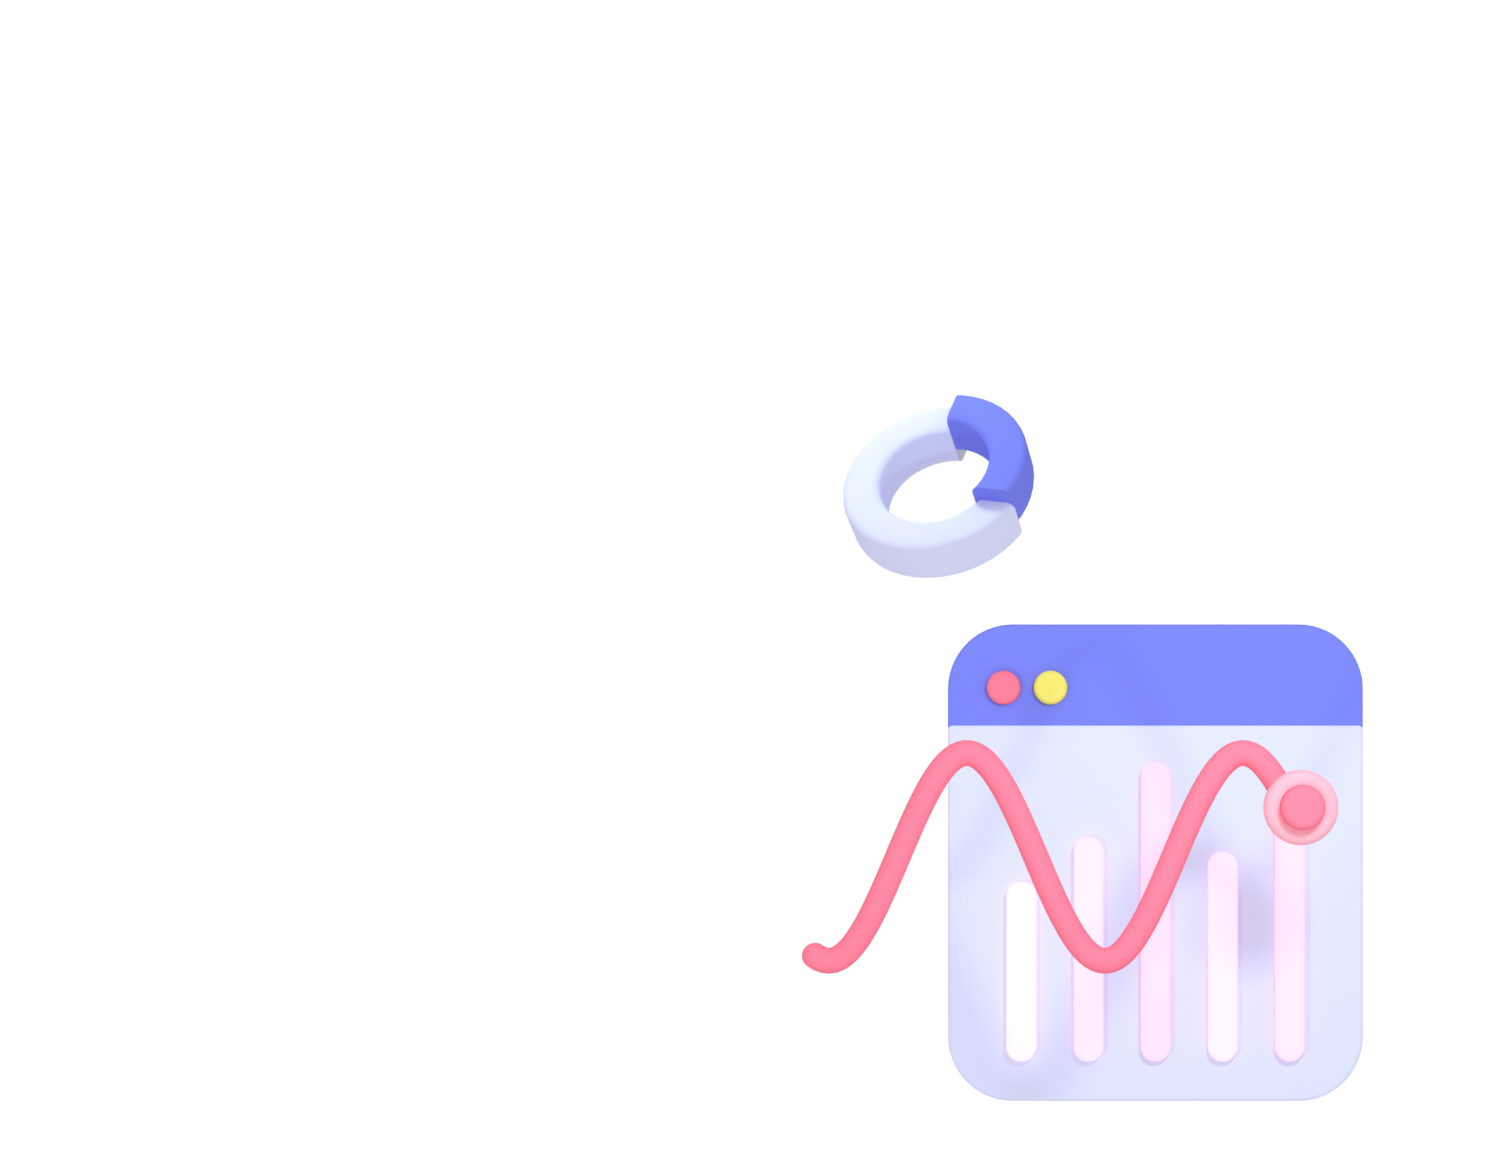
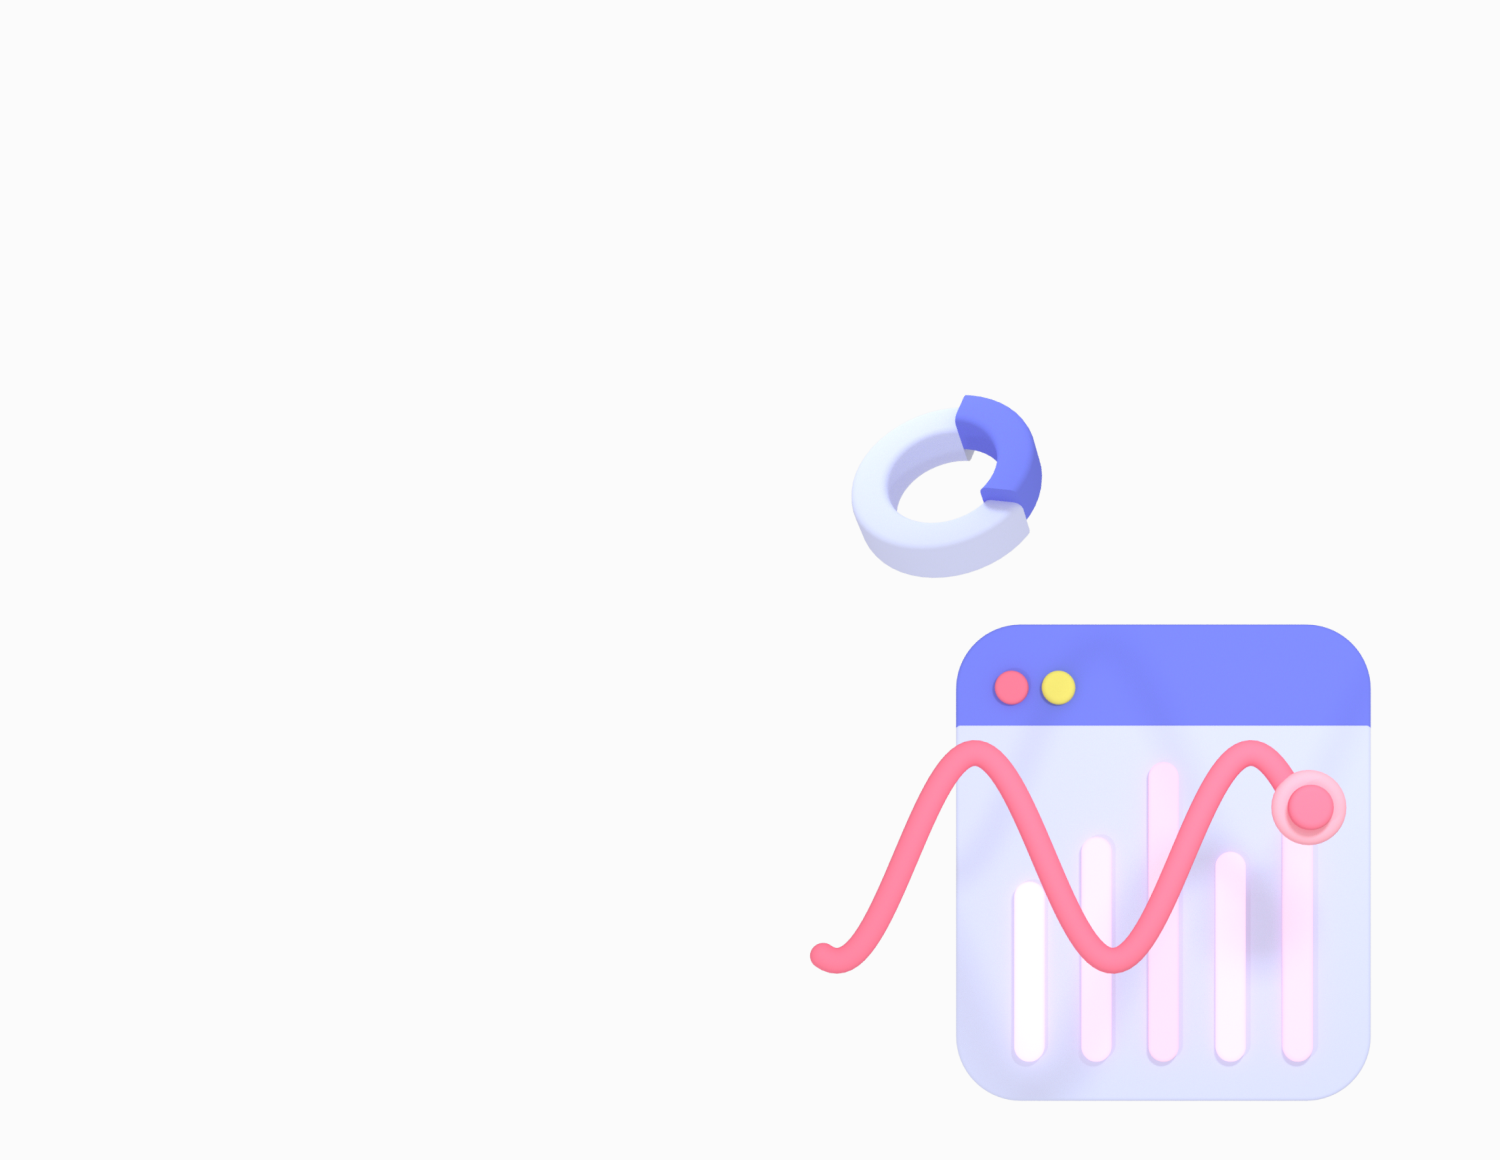
[WHAL-68] style: modify menubar, add images at component (#47)
* modify: bottom menu bar icons

* modify: main background img

* feat: add graphic at create success modal

* feat: change types of alert modal

* refactor: modal, menubar

* modify: imgages changed

* style: add whale img at create page

* style: add detail background img

* style: add detail tracked background img

diff --git a/src/components/Icon.tsx b/src/components/Icon.tsx
@@ -17,6 +17,8 @@ import whole from '../static/icons/whole.svg';
 import inprogress from '../static/icons/inprogress.svg';
 import completed from '../static/icons/completed.svg';
 import logo from '../static/icons/logo.svg';
+import mypage from '../static/icons/mypage.svg';
+import coloredMypage from '../static/icons/colored-mypage.svg';
 
 export const RootIcon = styled.div`
   &:hover {
@@ -35,8 +37,6 @@ export const IconType = {
   Profile: 'Profile',
   CreateVote: 'CreateVote',
   GoTop: 'GoTop',
-  BottomBarVote: 'BottomBarVote',
-  BottomBarMyPage: 'BottomBarMyPage',
 
   //////// Fixed Design System
   MainBack: 'MainBack',
@@ -52,6 +52,10 @@ export const IconType = {
   Inprogress: 'Inprogress',
   Completed: 'Completed',
   Logo: 'Logo',
+  Vote: 'Vote',
+  ColoredVote: 'ColoredVote',
+  MyPage: 'MyPage',
+  ColoredMypage: 'ColoredMypage',
 };
 
 export type TIcon = keyof typeof IconType;
@@ -79,13 +83,21 @@ export const IconMap: {
     width: 64px;
     height: 64px;
   `,
-  [IconType.BottomBarVote]: styled(RootIcon)`
+  [IconType.Vote]: styled(RootIcon)`
     width: 28px;
     height: 28px;
   `,
-  [IconType.BottomBarMyPage]: styled(RootIcon)`
+  [IconType.ColoredVote]: styled(RootIcon)`
     width: 28px;
     height: 28px;
+  `,
+  [IconType.ColoredMypage]: styled(RootIcon)`
+    width: 30px;
+    height: 30px;
+  `,
+  [IconType.MyPage]: styled(RootIcon)`
+    width: 30px;
+    height: 30px;
   `,
   [IconType.GoTop]: styled(RootIcon)`
     width: 56px;
@@ -159,12 +171,17 @@ const Icon = ({ iconType, style, onClick }: IconMapProps) => {
       src = whale;
       break;
     case IconType.Profile:
-
-    case IconType.BottomBarVote:
+    case IconType.Vote:
+      src = vote;
+      break;
+    case IconType.ColoredVote:
       src = coloredVote;
       break;
-    case IconType.BottomBarMyPage:
-      src = whale;
+    case IconType.MyPage:
+      src = mypage;
+      break;
+    case IconType.ColoredMypage:
+      src = coloredMypage;
       break;
     case IconType.CreateVote:
       src = pencil;

diff --git a/src/pages/detail/index.tsx b/src/pages/detail/index.tsx
@@ -15,6 +15,8 @@ import color from '../../styles/color';
 import BarGraph from '../../components/graph/BarGraph';
 import BottomSheet from '../../components/BottomSheet';
 import useModal from '../../hooks/useModal';
+import detail from '../../static/img/detail.png';
+import detailTracked from '../../static/img/detail-tracked.png';
 
 const index = () => {
   //해당 페이지에서는 양옆 패딩 제거
@@ -24,12 +26,13 @@ const index = () => {
   }
 
   const completed = false;
+  const tracked = true;
   // eslint-disable-next-line react-hooks/rules-of-hooks
   const { isOpen, toggleModal } = useModal();
 
   return (
     <div>
-      <div style={{ padding: '0 16px' }}>
+      <Background tracked={tracked}>
         <RowBetween>
           <Icon iconType="Close" />
           <Column>
@@ -56,7 +59,7 @@ const index = () => {
             <Text type="Body" content="+20" />
           </Row>
         </Column>
-      </div>
+      </Background>
       <VoteDetail>
         <CoinImg />
         <Text type="Headline" content="$비트코인이 1개월 후에" />
@@ -112,17 +115,29 @@ const index = () => {
     </div>
   );
 };
+interface BackgroundProps {
+  tracked: boolean;
+}
+const Background = styled.div<BackgroundProps>`
+  padding: 0 16px;
+
+  background-image: ${(props) =>
+    props.tracked ? `url(${detailTracked})` : `url(${detail})`};
+  background-size: contain;
+  background-repeat: no-repeat;
+
+  height: 211px;
+`;
 
 const VoteDetail = styled(ColumnCenter)`
   position: relative;
 
   width: 100%;
 
-  margin-top: 69px;
   padding-top: 40px;
 
   border-radius: 25px 25px 0 0;
-  border-top: 1px solid black;
+  box-shadow: -10px -10px 100px rgba(198, 200, 203, 0.1);
 `;
 
 const CoinImg = styled.img`
@@ -133,7 +148,7 @@ const CoinImg = styled.img`
   height: 91px;
 
   border-radius: 50%;
-  border: 5px solid black;
+  border: 5px solid #ffffff;
 
   background-color: #ffffff;
 `;

diff --git a/src/components/modal/AlertModal.tsx b/src/components/modal/AlertModal.tsx
@@ -1,0 +1,49 @@
+import React, { CSSProperties } from 'react';
+import color from '../../styles/color';
+import { TextAlignCenter } from '../Layout';
+import Text from '../Text';
+import Image from '../Image';
+import styled from 'styled-components';
+const AlertModal = ({ type }: { type: string }) => {
+  return (
+    <TextAlignCenter>
+      <Image imgType="AlertWhale" style={alertImgStyle} />
+      <TextWrapper>
+        <Text
+          type="Headline"
+          content="고래밥이 부족해요!"
+          style={{ marginBottom: 8 }}
+        />
+        <Text
+          type="Body2"
+          content={
+            type === 'goVote'
+              ? '운영자 투표 참여 후, 실제 결과를 기다려보세요.'
+              : '투표 첫 생성 시, 고래밥 100개를 드려요!'
+          }
+          style={{ color: `${color.darkness[6]}` }}
+        />
+        <Text
+          type="Body2"
+          content={
+            type === 'goVote'
+              ? '적중 시 고래밥 30개를 드려요!'
+              : '지금 첫 투표를 만들러 가볼까요?'
+          }
+          style={{ color: `${color.darkness[6]}` }}
+        />
+      </TextWrapper>
+    </TextAlignCenter>
+  );
+};
+const alertImgStyle: CSSProperties = {
+  position: 'relative',
+  bottom: 20,
+};
+const TextWrapper = styled.div`
+  position: absolute;
+  bottom: 90px;
+  line-height: normal;
+`;
+
+export default AlertModal;

diff --git a/src/components/MenuBar.tsx b/src/components/MenuBar.tsx
@@ -1,26 +1,30 @@
 import React from 'react';
-import { Link } from 'react-router-dom';
+import { Link, useLocation } from 'react-router-dom';
 import styled from 'styled-components';
 import Icon from './Icon';
 import { ColumnCenter, RowBetween } from './Layout';
 const MenuBar = () => {
+  const path = useLocation().pathname.slice(1);
+
   return (
     <Container>
       <StyledLink to="/">
         <ColumnCenter>
-          <Icon iconType="Home" />
+          <Icon iconType={path === '' ? 'ColoredHome' : 'Home'} />
           <MenuText>홈</MenuText>
         </ColumnCenter>
       </StyledLink>
       <StyledLink to="/">
         <ColumnCenter>
-          <Icon iconType="BottomBarVote" />
+          <Icon iconType={path === 'votes' ? 'ColoredVote' : 'Vote'} />
           <MenuText>투표하기</MenuText>
         </ColumnCenter>
       </StyledLink>
       <StyledLink to="/my-page">
         <ColumnCenter>
-          <Icon iconType="BottomBarMyPage" />
+          <Icon
+            iconType={path.includes('my-page') ? 'ColoredMypage' : 'MyPage'}
+          />
           <MenuText>마이페이지</MenuText>
         </ColumnCenter>
       </StyledLink>

diff --git a/src/pages/createVote/CreateVoteMain.tsx b/src/pages/createVote/CreateVoteMain.tsx
@@ -1,11 +1,12 @@
 import React, { CSSProperties } from 'react';
 import Button from '../../components/Button';
 import Text from '../../components/Text';
+import Image from '../../components/Image';
 import color from '../../styles/color';
 import { ProgressBtnWrapper } from '../../styles/createvote.styles';
 const CreateVoteMain = ({ nextStep }: any) => {
   return (
-    <>
+    <div>
       <div>
         <Text type="Title" content="고래님," /> <br />
         <Text type="Title" content="투표를 생성하시겠습니까?" />
@@ -18,7 +19,8 @@ const CreateVoteMain = ({ nextStep }: any) => {
       <ProgressBtnWrapper>
         <Button buttonType="Create" content="투표 만들기" onClick={nextStep} />
       </ProgressBtnWrapper>
-    </>
+      <Image imgType="CreateVote" />
+    </div>
   );
 };
 

diff --git a/src/components/modal/CreateSuccessModal.tsx b/src/components/modal/CreateSuccessModal.tsx
@@ -1,7 +1,8 @@
 import React, { CSSProperties } from 'react';
-import Text from './Text';
-import color from '../styles/color';
-import { ColumnCenter, TextAlignCenter } from './Layout';
+import Text from '../Text';
+import Image from '../Image';
+import color from '../../styles/color';
+import { ColumnCenter, TextAlignCenter } from '../Layout';
 import styled from 'styled-components';
 const CreateSuccessModal = () => {
   return (
@@ -14,6 +15,7 @@ const CreateSuccessModal = () => {
           style={{ color: `${color.blue[4]}` }}
         />
         <Text type="Headline2" content=" 되었습니다!" style={textSpace} />
+        <Image imgType="Success" />
         <Marker>
           <Text type="Body2" content="남은 고래밥 3000개" />
         </Marker>

diff --git a/src/pages/createVote/LastStep.tsx b/src/pages/createVote/LastStep.tsx
@@ -3,15 +3,15 @@ import color from '../../styles/color';
 import styled from 'styled-components';
 import Button from '../../components/Button';
 import Text from '../../components/Text';
-import Modal from '../../components/Modal';
+import Modal from '../../components/modal/Modal';
 import {
   voteTimeNoticeStyle,
   ProgressBtnWrapper,
 } from '../../styles/createvote.styles';
 import useModal from '../../hooks/useModal';
 import { ColumnCenter } from '../../components/Layout';
-import CreateSuccessModal from '../../components/CreateSuccessModal';
-
+import CreateSuccessModal from '../../components/modal/CreateSuccessModal';
+import AlertModal from '../../components/modal/AlertModal';
 const LastStep = () => {
   const { isOpen, toggleModal } = useModal();
 

diff --git a/src/components/modal/Modal.tsx b/src/components/modal/Modal.tsx
@@ -1,8 +1,8 @@
 import React, { CSSProperties } from 'react';
-import Button from './Button';
-import { Column } from './Layout';
+import Button from '../Button';
+import { ColumnCenter } from '../Layout';
 import styled from 'styled-components';
-import Icon from './Icon';
+import Icon from '../Icon';
 
 interface IModal {
   isOpen: boolean;
@@ -91,12 +91,16 @@ export const ModalContainer = styled.div<ModalProps>`
   z-index: 1000;
 `;
 
-export const ModalWrapper = styled(Column)`
+export const ModalWrapper = styled(ColumnCenter)`
   padding: 16px;
-  justify-content: center;
 
   border-radius: 15px;
 
   background-color: #fff;
+
+  position: fixed;
+  top: 50%;
+  left: 50%;
+  transform: translate(-50%, -50%);
 `;
 export default Modal;

diff --git a/src/App.tsx b/src/App.tsx
@@ -20,7 +20,7 @@ function App() {
           <Route path="/sign-up" element={<SignUp />} />
           <Route path="/create" element={<CreateVote />} />
           <Route path="/my-page/:nickname" element={<MyPage />} />
-          <Route path="/detail" element={<Detail />} />
+          <Route path="/votes/:id" element={<Detail />} />
         </Routes>
       </BrowserRouter>
     </>

diff --git a/src/pages/myPage/index.tsx b/src/pages/myPage/index.tsx
@@ -1,11 +1,13 @@
 import React from 'react';
 import Icon, { IconType, TIcon } from '../../components/Icon';
 import { Column } from '../../components/Layout';
+import MenuBar from '../../components/MenuBar';
 
 const index = () => {
   return (
     <Column>
       <Icon iconType={IconType.MainBack as TIcon} />
+      <MenuBar />
     </Column>
   );
 };

diff --git a/src/components/Image.tsx b/src/components/Image.tsx
@@ -47,8 +47,11 @@ const ImgMap: {
     height: 227px;
   `,
   [ImgType.CreateVote]: styled(RootImg)`
-    width: 375px;
-    height: 298px;
+    position: relative;
+    width: 340px;
+
+    top: 250px;
+    left: -10px;
   `,
   [ImgType.Detail]: styled(RootImg)`
     width: 375px;

diff --git a/src/pages/main/index.tsx b/src/pages/main/index.tsx
@@ -74,6 +74,8 @@ const VoteListWrapper = styled(Column)`
   background: #ffffff;
 
   border-radius: 20px 20px 0px 0px;
+
+  box-shadow: -10px -10px 100px rgba(198, 200, 203, 0.1);
 `;
 
 const createVoteStyle: CSSProperties = {
